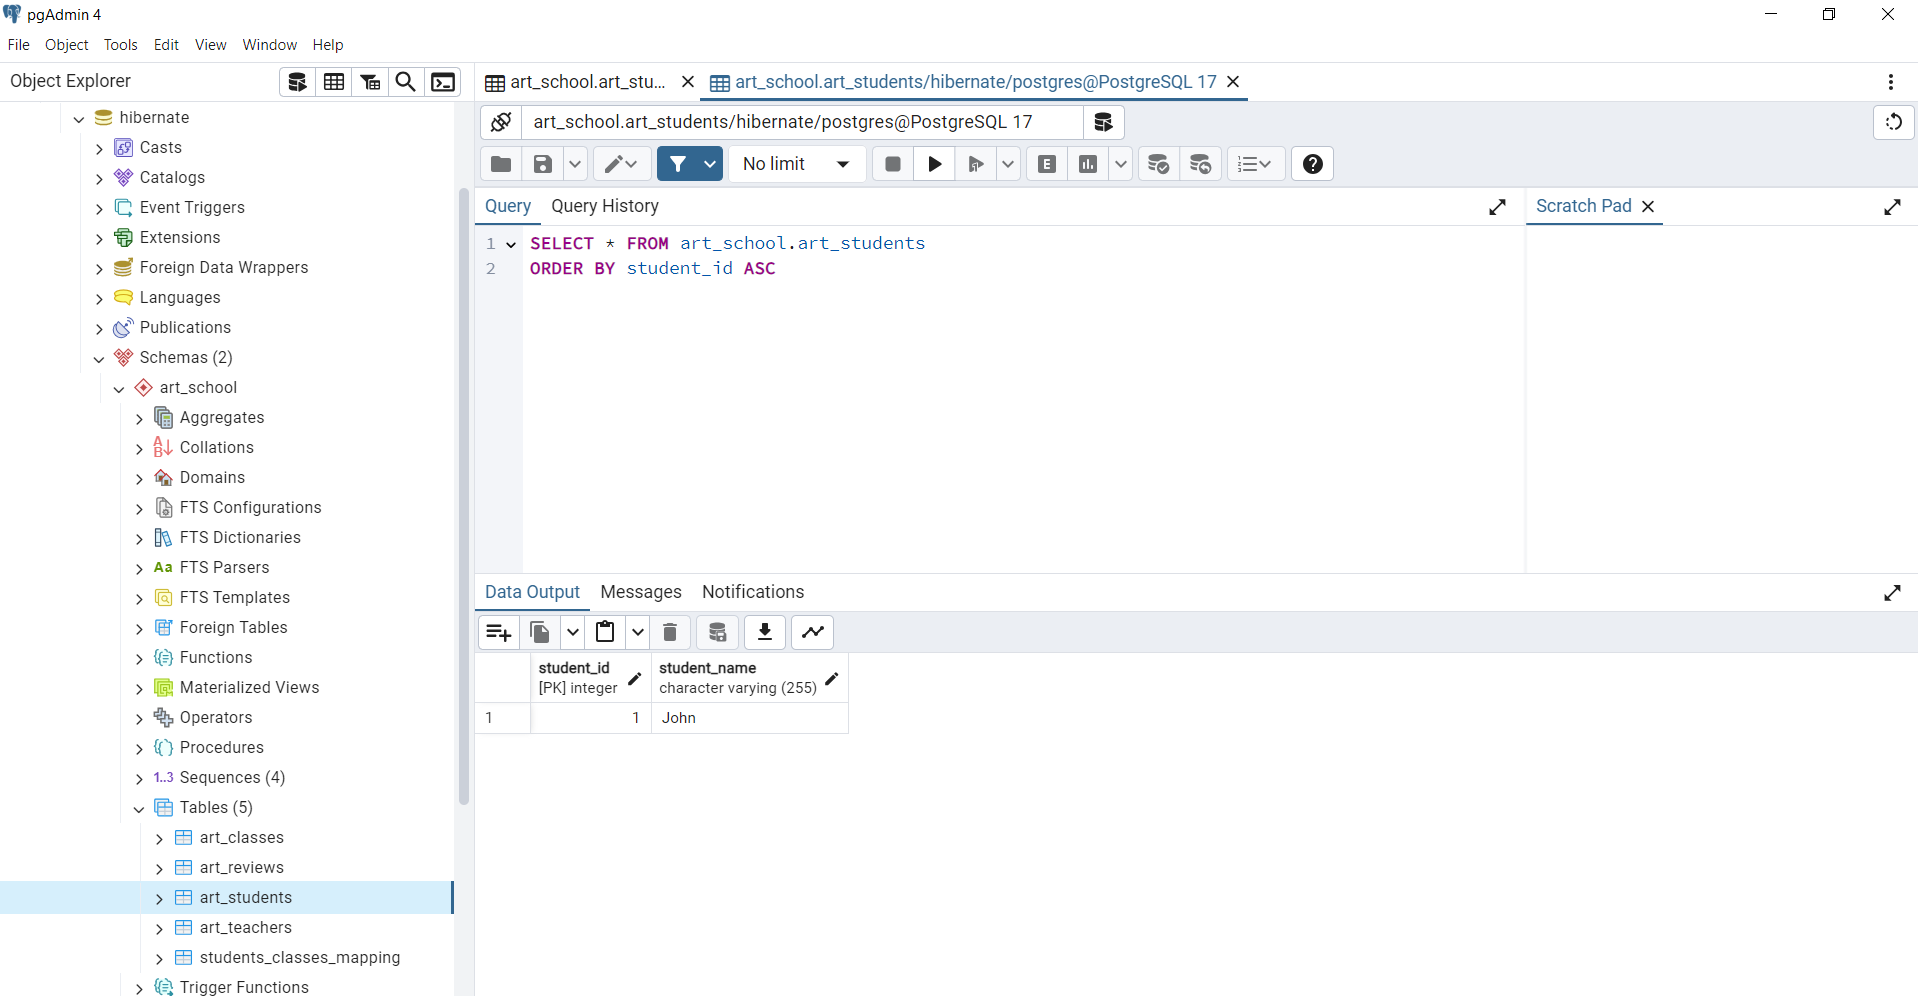
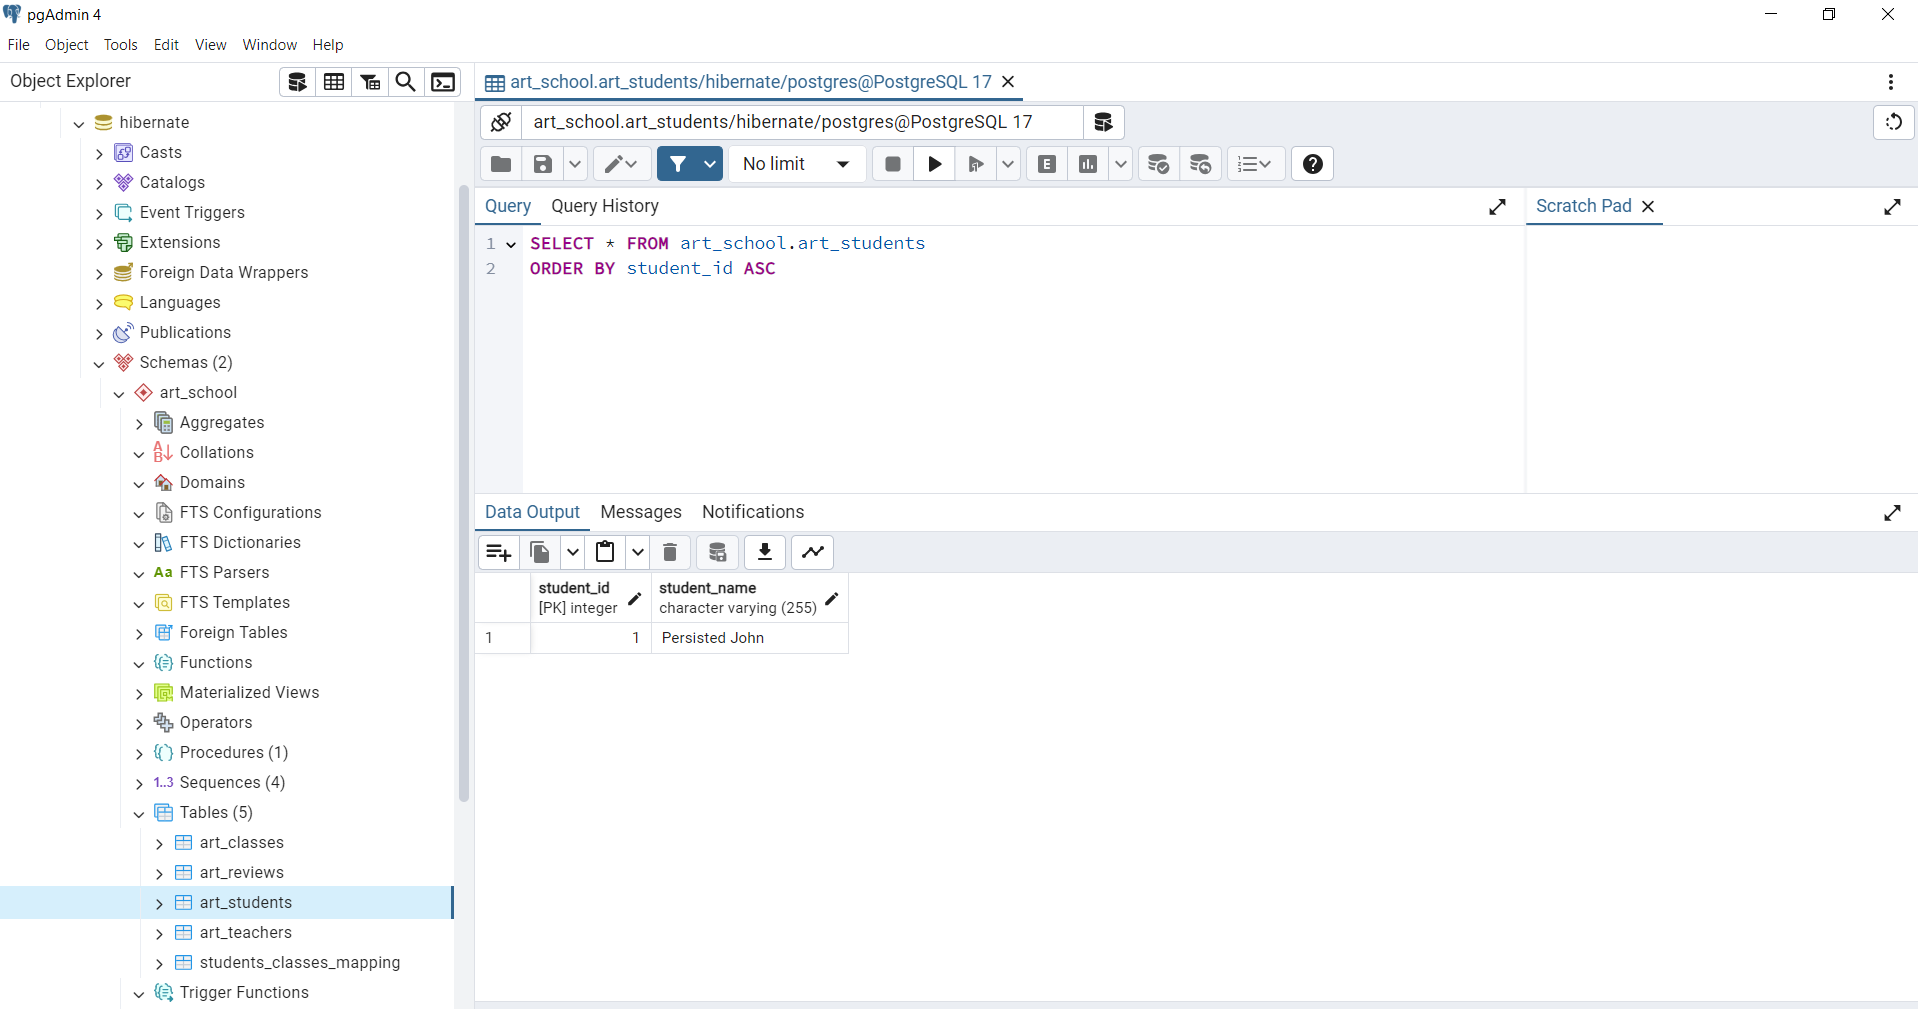
JPA implementation with Hibernate: - docs for Challenge: "Art School" entity operations with Hibernate

diff --git a/README.md b/README.md
@@ -274,46 +274,22 @@ public class ArtTeacher {
 
 Full list of Entities is [here](Jpa-and-Hibernate/src/main/java/yevhent/demo/hibernate/entity).
 
-#### Challenge: "Art School" entity operations with Hibernate
+#### Challenge: CRUD operations with Hibernate
 
-**Task**: 
+**Task**:
 
 Implement java methods for next operations
-- Save new Student object to DB: 
-  - Create new Student object
-  - Save that object using `EntityManager.persist()` method
-  - Make sure new Student is saved to DB
-- Update existing Student in DB: 
-  - Get Student object using `EntityManager.find()` method
-  - Set new name for that object
-  - Make sure new name is saved to DB
-- Attach new Student object:
-  - Create new Student object
-  - Attach that Student object to context using `EntityManager.merge()` method
-  - Make sure new Student is saved to DB
-- Attach existing Student object:
-  - Create new Student object with existing `id`
-  - Set new name for that object
-  - Attach that Student object to context using `EntityManager.merge()` method
-  - Make sure name of existing Student is updated in DB
-- Detach existing Student in DB:
-  - Get Student object using `EntityManager.find()` method
-  - Set new name `John` for that object
-  - Detach that object using `EntityManager.detach()` method
-  - Set new name `Peter` for that object
-  - Make sure `John` is only name saved to that Student in DB
-- Detach and Attach existing Student:
-  - Get Student object using `EntityManager.find()` method
-  - Detach that object using `EntityManager.detach()` method
-  - Set new name `Peter` for that object
-  - Make sure no output in console about update statement 
-  - Attach that object using `EntityManager.merge()` method
-  - Set new name for that object
-  - Make sure name of existing Student is updated in DB
+- Persist and Create new Student in DB using `EntityManager.persist()` method
+- Attach and Create new Student in DB using `EntityManager.merge()` method
+- Proxy and Update existing Student in DB using `EntityManager.getReference()` and `ArtClass.setName()` methods
+- Find and Update existing Student in DB using `EntityManager.find()` and `ArtClass.setName()` methods
+- Attach and Update existing Student object using `EntityManager.merge()` method
+- Delete existing Student by ID using `EntityManager.getReference()` and `EntityManager.remove()` methods
+- Find, Detach and Update existing Student in DB using `EntityManager.find()`, `EntityManager.detach()` and `ArtClass.setName()` methods
 
-**Solution examples**: 
+**Solution examples**:
     
-- Create
+- Create using `EntityManager.persist()`
 
 ```java
 import jakarta.persistence.EntityManager;
@@ -321,18 +297,23 @@ import jakarta.persistence.EntityManagerFactory;
 import yevhent.demo.hibernate.configuration.ArtSchoolFactory;
 import yevhent.demo.hibernate.entity.ArtStudent;
 
-public class PersistDemo {
+public class PersistAndCreateDemo {
   public static void main(String[] args) {
 
     try (EntityManagerFactory entityManagerFactory = ArtSchoolFactory.createEntityManagerFactory();
          EntityManager entityManager = entityManagerFactory.createEntityManager()) { // session is opened once EntityManager is provided
       entityManager.getTransaction().begin(); // begin Transaction in order to follow ACID within this method
-
-      ArtStudent artStudent = new ArtStudent(0, "John"); // id = 0 is just default value, it will be ignored by Hibernate and generated by PostgreSQL
-      entityManager.persist(artStudent); // "Hibernate: insert into art_school.art_students (student_name) values (?) returning student_id"
-      // changes are in Hibernate context (in Java app)
+      // ID should be 0 for Entity creation.
+      // Providing non-zero existing (or non-existing) ID will lead to EntityExistsException
+      // Based on our Entity GenerationType = IDENTITY, Hibernate knows ID generation strategy, so creates insert statement with no ID.
+      // Finally, ID is generated by PostgreSQL starting from 1.
+      ArtStudent artStudent = new ArtStudent(0, "Persisted John");
+      entityManager.persist(artStudent);
+      // Hibernate prepares statement:
+      // "Hibernate: insert into art_school.art_students (student_name) values (?) returning student_id"
+      // But changes remains in Hibernate context (in Java app)
       entityManager.getTransaction().commit(); // actual insert to DB
-    } // session is closed by entityManager.close()
+    } // session is closed here by entityManager.close()
   }
 }
 ```
@@ -340,33 +321,6 @@ public class PersistDemo {
 The Student is saved to DB:
 
 ![](image/2.PNG)
-
-- Update
-```java
-public class FindAndUpdateDemo {
-    public static void main(String[] args) {
-
-        try (EntityManagerFactory entityManagerFactory = ArtSchoolFactory.createEntityManagerFactory();
-             EntityManager entityManager = entityManagerFactory.createEntityManager()) {
-            entityManager.getTransaction().begin();
-
-            ArtStudent artStudent = entityManager.find(ArtStudent.class, 1);
-            // Hibernate: select as1_0.student_id,as1_0.student_name from art_school.art_students as1_0 where as1_0.student_id=?
-            // call to DB
-            artStudent.setName("James");
-            // Entity is already in Hibernate context, so no statements printed and Hibernate just does dirty checking
-            entityManager.getTransaction().commit();
-            // Hibernate: update art_school.art_students set student_name=? where student_id=?
-            // call to DB
-        }
-    }
-}
-```
-
-Name is updated in DB:
-
-![](image/3.PNG)
-
 
 Full list of operations is [here](Jpa-and-Hibernate/src/main/java/yevhent/demo/hibernate/operation).
 
